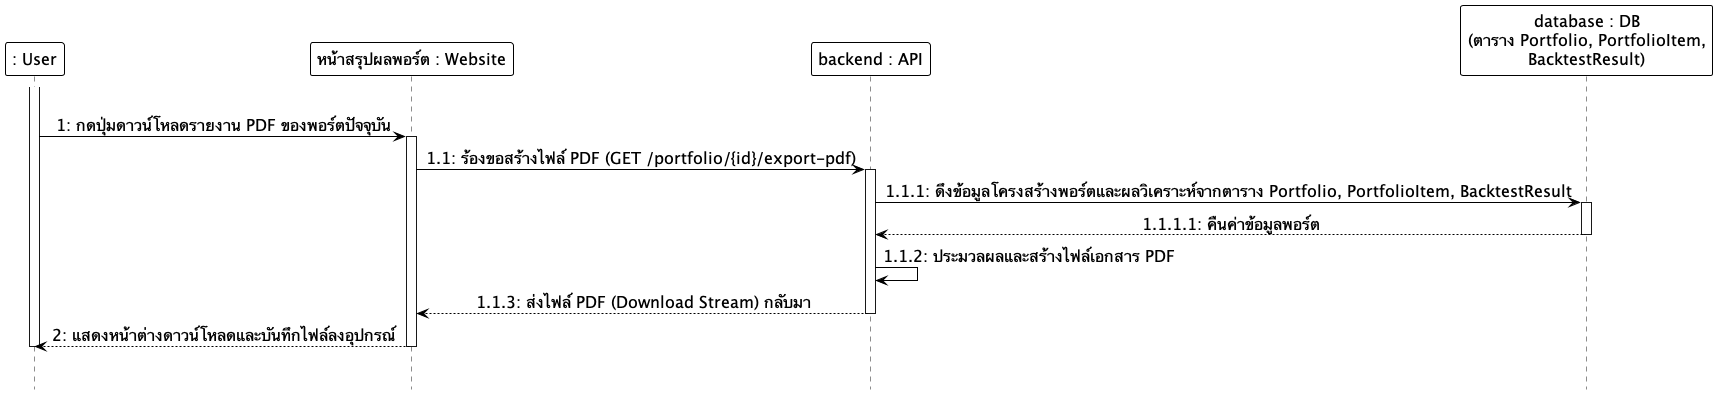
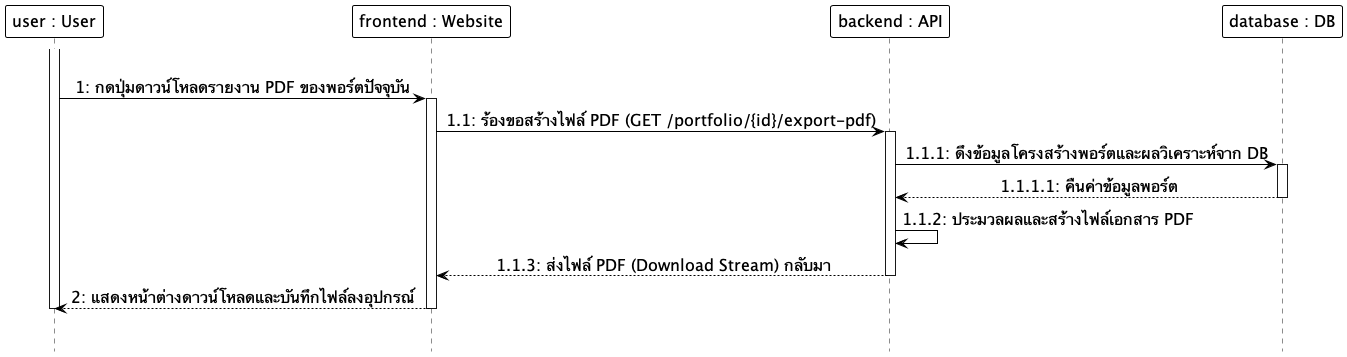
docs: Update diagram swimlanes and participants to use instance : Class notation

diff --git a/docs/diagrams/plantuml_source/plantuml_sequence_diagrams.md b/docs/diagrams/plantuml_source/plantuml_sequence_diagrams.md
@@ -25,9 +25,9 @@ skinparam ArrowColor black
 skinparam ArrowFontSize 16
 skinparam sequenceMessageAlign center
 
-participant ": User" as User
-participant "หน้าเว็บ : Website" as Frontend
-participant "ระบบล็อกอิน : Clerk" as Clerk
+participant "user : User" as User
+participant "frontend : Website" as Frontend
+participant "auth : Clerk" as Clerk
 
 |||
 activate User
@@ -111,8 +111,8 @@ skinparam ArrowColor black
 skinparam ArrowFontSize 16
 skinparam sequenceMessageAlign center
 
-participant ": User" as User
-participant "หน้าแก้ไขข้อมูล : Website" as Frontend
+participant "user : User" as User
+participant "frontend : Website" as Frontend
 participant "backend : API" as Backend
 participant "database : DB" as DB
 
@@ -187,8 +187,8 @@ skinparam ArrowColor black
 skinparam ArrowFontSize 16
 skinparam sequenceMessageAlign center
 
-participant ": User" as User
-participant "หน้าเว็บ : Website" as Frontend
+participant "user : User" as User
+participant "frontend : Website" as Frontend
 
 |||
 activate User
@@ -225,8 +225,8 @@ skinparam ArrowColor black
 skinparam ArrowFontSize 16
 skinparam sequenceMessageAlign center
 
-participant ": User" as User
-participant "หน้าเว็บ : Website" as Frontend
+participant "user : User" as User
+participant "frontend : Website" as Frontend
 
 |||
 activate User
@@ -264,8 +264,8 @@ skinparam ArrowColor black
 skinparam ArrowFontSize 16
 skinparam sequenceMessageAlign center
 
-participant ": User" as User
-participant "หน้าเว็บ : Website" as Frontend
+participant "user : User" as User
+participant "frontend : Website" as Frontend
 participant "backend : API" as Backend
 participant "engine : Model" as Model
 participant "database : DB" as DB
@@ -323,8 +323,8 @@ skinparam ArrowColor black
 skinparam ArrowFontSize 16
 skinparam sequenceMessageAlign center
 
-participant ": User" as User
-participant "หน้าเว็บ : Website" as Frontend
+participant "user : User" as User
+participant "frontend : Website" as Frontend
 participant "backend : API" as Backend
 participant "database : DB" as DB
 
@@ -376,8 +376,8 @@ skinparam ArrowColor black
 skinparam ArrowFontSize 16
 skinparam sequenceMessageAlign center
 
-participant ": User" as User
-participant "หน้าปรับปรุงพอร์ต : Website" as Frontend
+participant "user : User" as User
+participant "frontend : Website" as Frontend
 participant "backend : API" as Backend
 participant "engine : Model" as Model
 participant "database : DB" as DB
@@ -429,8 +429,8 @@ skinparam ArrowColor black
 skinparam ArrowFontSize 16
 skinparam sequenceMessageAlign center
 
-participant ": User" as User
-participant "หน้าสรุปผลพอร์ต : Website" as Frontend
+participant "user : User" as User
+participant "frontend : Website" as Frontend
 participant "backend : API" as Backend
 participant "database : DB" as DB
 
@@ -476,8 +476,8 @@ skinparam ArrowColor black
 skinparam ArrowFontSize 16
 skinparam sequenceMessageAlign center
 
-participant ": User" as User
-participant "หน้าเว็บ : Website" as Frontend
+participant "user : User" as User
+participant "frontend : Website" as Frontend
 participant "backend : API" as Backend
 participant "database : DB" as DB
 
@@ -524,8 +524,8 @@ skinparam ArrowColor black
 skinparam ArrowFontSize 16
 skinparam sequenceMessageAlign center
 
-participant ": User" as User
-participant "หน้าเว็บ : Website" as Frontend
+participant "user : User" as User
+participant "frontend : Website" as Frontend
 
 |||
 activate User
@@ -562,9 +562,9 @@ skinparam ArrowColor black
 skinparam ArrowFontSize 16
 skinparam sequenceMessageAlign center
 
-participant ": User / Admin" as User
-participant "หน้าเว็บ : Website" as Frontend
-participant "ระบบล็อกอิน : Clerk" as Clerk
+participant "actor : User" as User
+participant "frontend : Website" as Frontend
+participant "auth : Clerk" as Clerk
 participant "backend : API" as Backend
 participant "database : DB" as DB
 
@@ -658,8 +658,8 @@ skinparam ArrowColor black
 skinparam ArrowFontSize 16
 skinparam sequenceMessageAlign center
 
-participant ": User / Admin" as User
-participant "หน้าเว็บ : Website" as Frontend
+participant "actor : User" as User
+participant "frontend : Website" as Frontend
 
 |||
 activate User
@@ -696,8 +696,8 @@ skinparam ArrowColor black
 skinparam ArrowFontSize 16
 skinparam sequenceMessageAlign center
 
-participant ": Admin" as Admin
-participant "หน้าจอแอดมิน : Website" as Frontend
+participant "admin : Admin" as Admin
+participant "frontend : Website" as Frontend
 participant "backend : API" as Backend
 participant "database : DB" as DB
 
@@ -752,8 +752,8 @@ skinparam ArrowColor black
 skinparam ArrowFontSize 16
 skinparam sequenceMessageAlign center
 
-participant ": Admin" as Admin
-participant "หน้าจอแอดมิน : Website" as Frontend
+participant "admin : Admin" as Admin
+participant "frontend : Website" as Frontend
 participant "backend : API" as Backend
 participant "database : DB" as DB
 
@@ -799,8 +799,8 @@ skinparam ArrowColor black
 skinparam ArrowFontSize 16
 skinparam sequenceMessageAlign center
 
-participant ": Admin" as Admin
-participant "หน้าจอแอดมิน : Website" as Frontend
+participant "admin : Admin" as Admin
+participant "frontend : Website" as Frontend
 participant "backend : API" as Backend
 participant "database : DB" as DB
 
